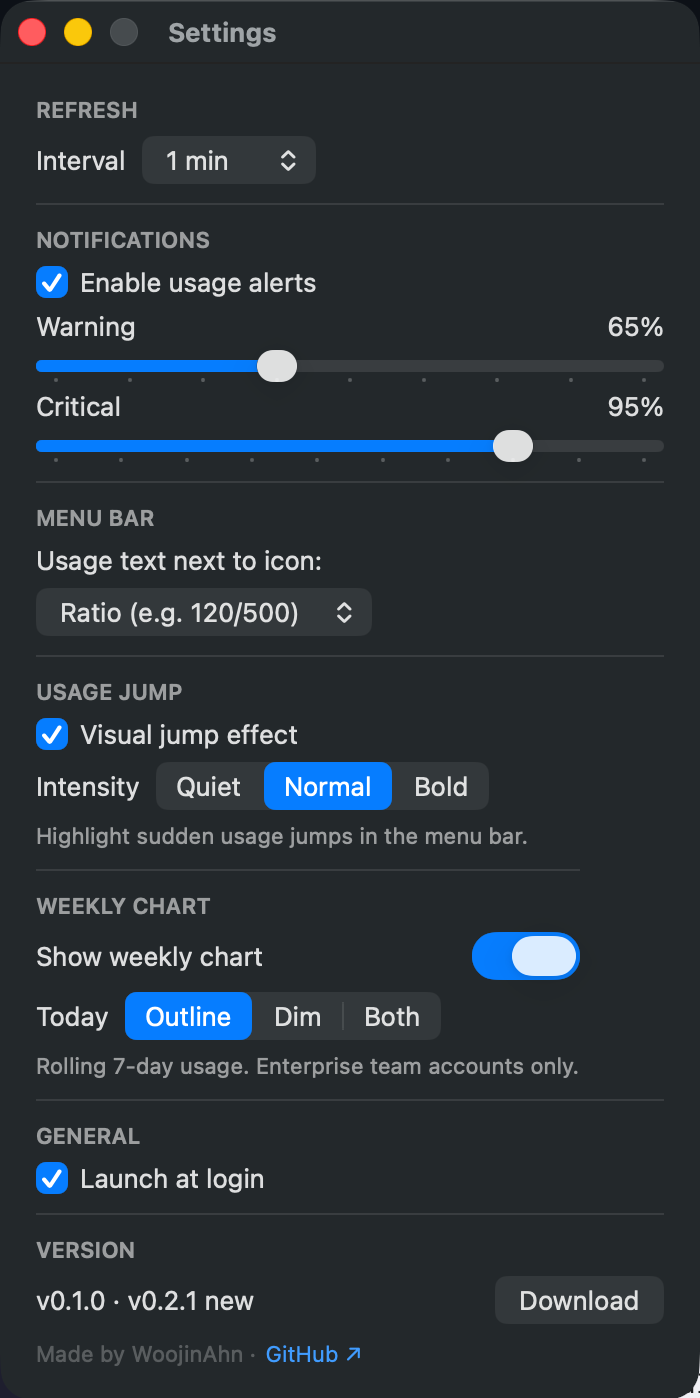
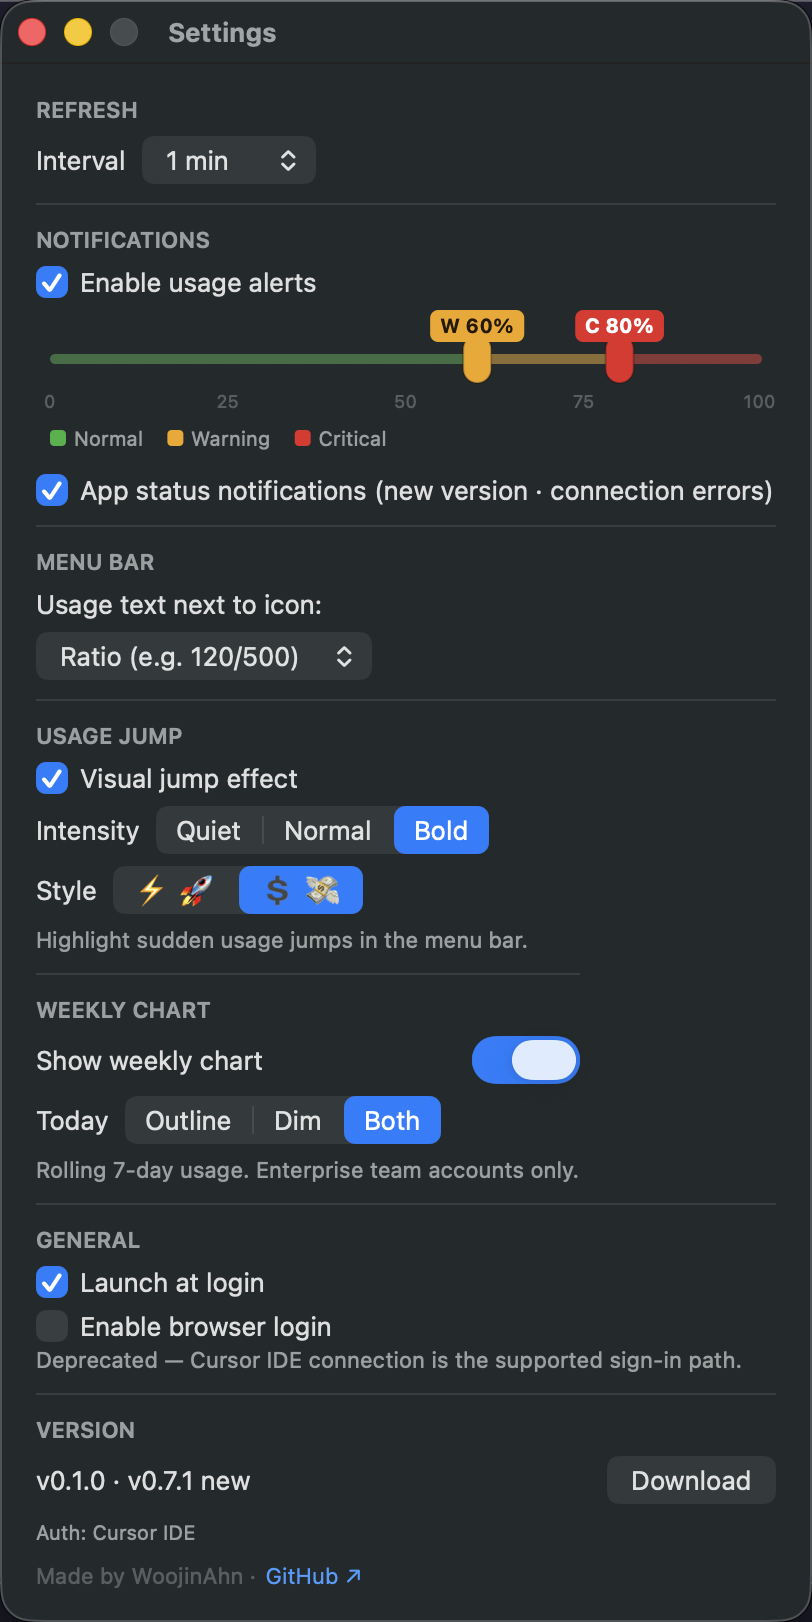
[#91] docs: refresh README login bullets + settings/popover screenshots

diff --git a/README.ko.md b/README.ko.md
@@ -28,7 +28,8 @@
 - 설정 UI (새로고침 간격, 알림 임계치, 메뉴바 표시 형식, 점프 이펙트 강도, 주간 차트 스타일)
 - 로그인 시 자동 실행 지원
 - 앱 내 업데이트 확인
-- 앱 내 WebView 로그인 (Google, GitHub, Enterprise SSO 지원)
+- **제로 설정 로그인** — 같은 Mac의 Cursor IDE에 로그인되어 있으면 별도 로그인 없이 자동 연결됩니다. IDE에 로그인되어 있지 않으면 팝오버가 안내합니다: 클릭 한 번으로 IDE가 열리고, 로그인을 마치는 순간 앱이 스스로 연결됩니다. 로그아웃하면 자동 IDE 연결도 재연결 전까지 일시 중지됩니다.
+- **브라우저(WebView) 로그인은 deprecated** — 여전히 동작하지만(Google, GitHub, Enterprise SSO), 설정 → General → "Enable browser login" 옵트인 뒤로 숨겨졌습니다. Cursor IDE 앱이 설치되어 있지 않은 경우에만 자동으로 다시 노출되므로, 연결 경로가 없어지는 일은 없습니다.
 - 자동 새로고침 (1/2/5/15분 간격 선택)
 - Keychain 기반 인증 정보 저장
 - 순수 AppKit 기반 — 가벼운 메모리 풋프린트 (idle ~13 MB, 팝오버를 한 번 연 이후엔 ~30 MB; macOS가 AppKit/popover state를 유지해 다시 여는 속도 즉시). 주간 차트가 필요 없고 옛 ~15 MB 풋프린트가 더 낫다면 이전 안정 릴리즈 [v0.2.1](https://github.com/WoojinAhn/CursorMeter/releases/tag/v0.2.1) 을 받으시면 됩니다.
@@ -84,7 +85,6 @@ Unit test (LogRedactor, UsageDisplayData, DomainWhitelist, CircularProgressIcon,
 
 - [ ] 주간 차트 막대에 mode (plan/on-demand) 시각 표시 ([#69](https://github.com/WoojinAhn/CursorMeter/issues/69))
 - [ ] 주간 차트에 빌링 사이클 rollover 마커 표시 ([#70](https://github.com/WoojinAhn/CursorMeter/issues/70))
-- [ ] 인증 방식을 WebView 쿠키 캡처에서 API 토큰 paste 로 마이그레이션 ([#54](https://github.com/WoojinAhn/CursorMeter/issues/54))
 
 ## 기여하기
 

diff --git a/README.md b/README.md
@@ -28,7 +28,8 @@ Unlike in-editor extensions, CursorMeter runs independently as a native macOS ap
 - Settings UI (refresh interval, notification thresholds, menu bar display format, jump-effect intensity, weekly-chart style)
 - Launch at login support
 - In-app update checker
-- **Zero-config login** — if the Cursor IDE is signed in on the same Mac, CursorMeter connects automatically (no separate login). Browser (WebView) login — Google, GitHub, Enterprise SSO — remains as fallback. Logging out also pauses the automatic IDE connection until you reconnect.
+- **Zero-config login** — if the Cursor IDE is signed in on the same Mac, CursorMeter connects automatically (no separate login). If the IDE isn't signed in yet, the popover guides you: one click opens the IDE, and the app connects itself the moment you finish signing in. Logging out pauses the automatic IDE connection until you reconnect.
+- **Browser (WebView) login is deprecated** — it still works (Google, GitHub, Enterprise SSO), but is hidden behind an opt-in: Settings → General → "Enable browser login". It reappears automatically only when the Cursor IDE app is not installed, so there is always at least one way to connect.
 - Auto-refresh at configurable intervals (1/2/5/15 min)
 - Keychain-based credential storage
 - Pure AppKit — light memory footprint (~13 MB idle, ~30 MB once the popover has been opened; macOS retains AppKit / popover state for instant re-opens). If you don't need the weekly chart and want the older ~15 MB footprint instead, [v0.2.1](https://github.com/WoojinAhn/CursorMeter/releases/tag/v0.2.1) is the previous stable release.